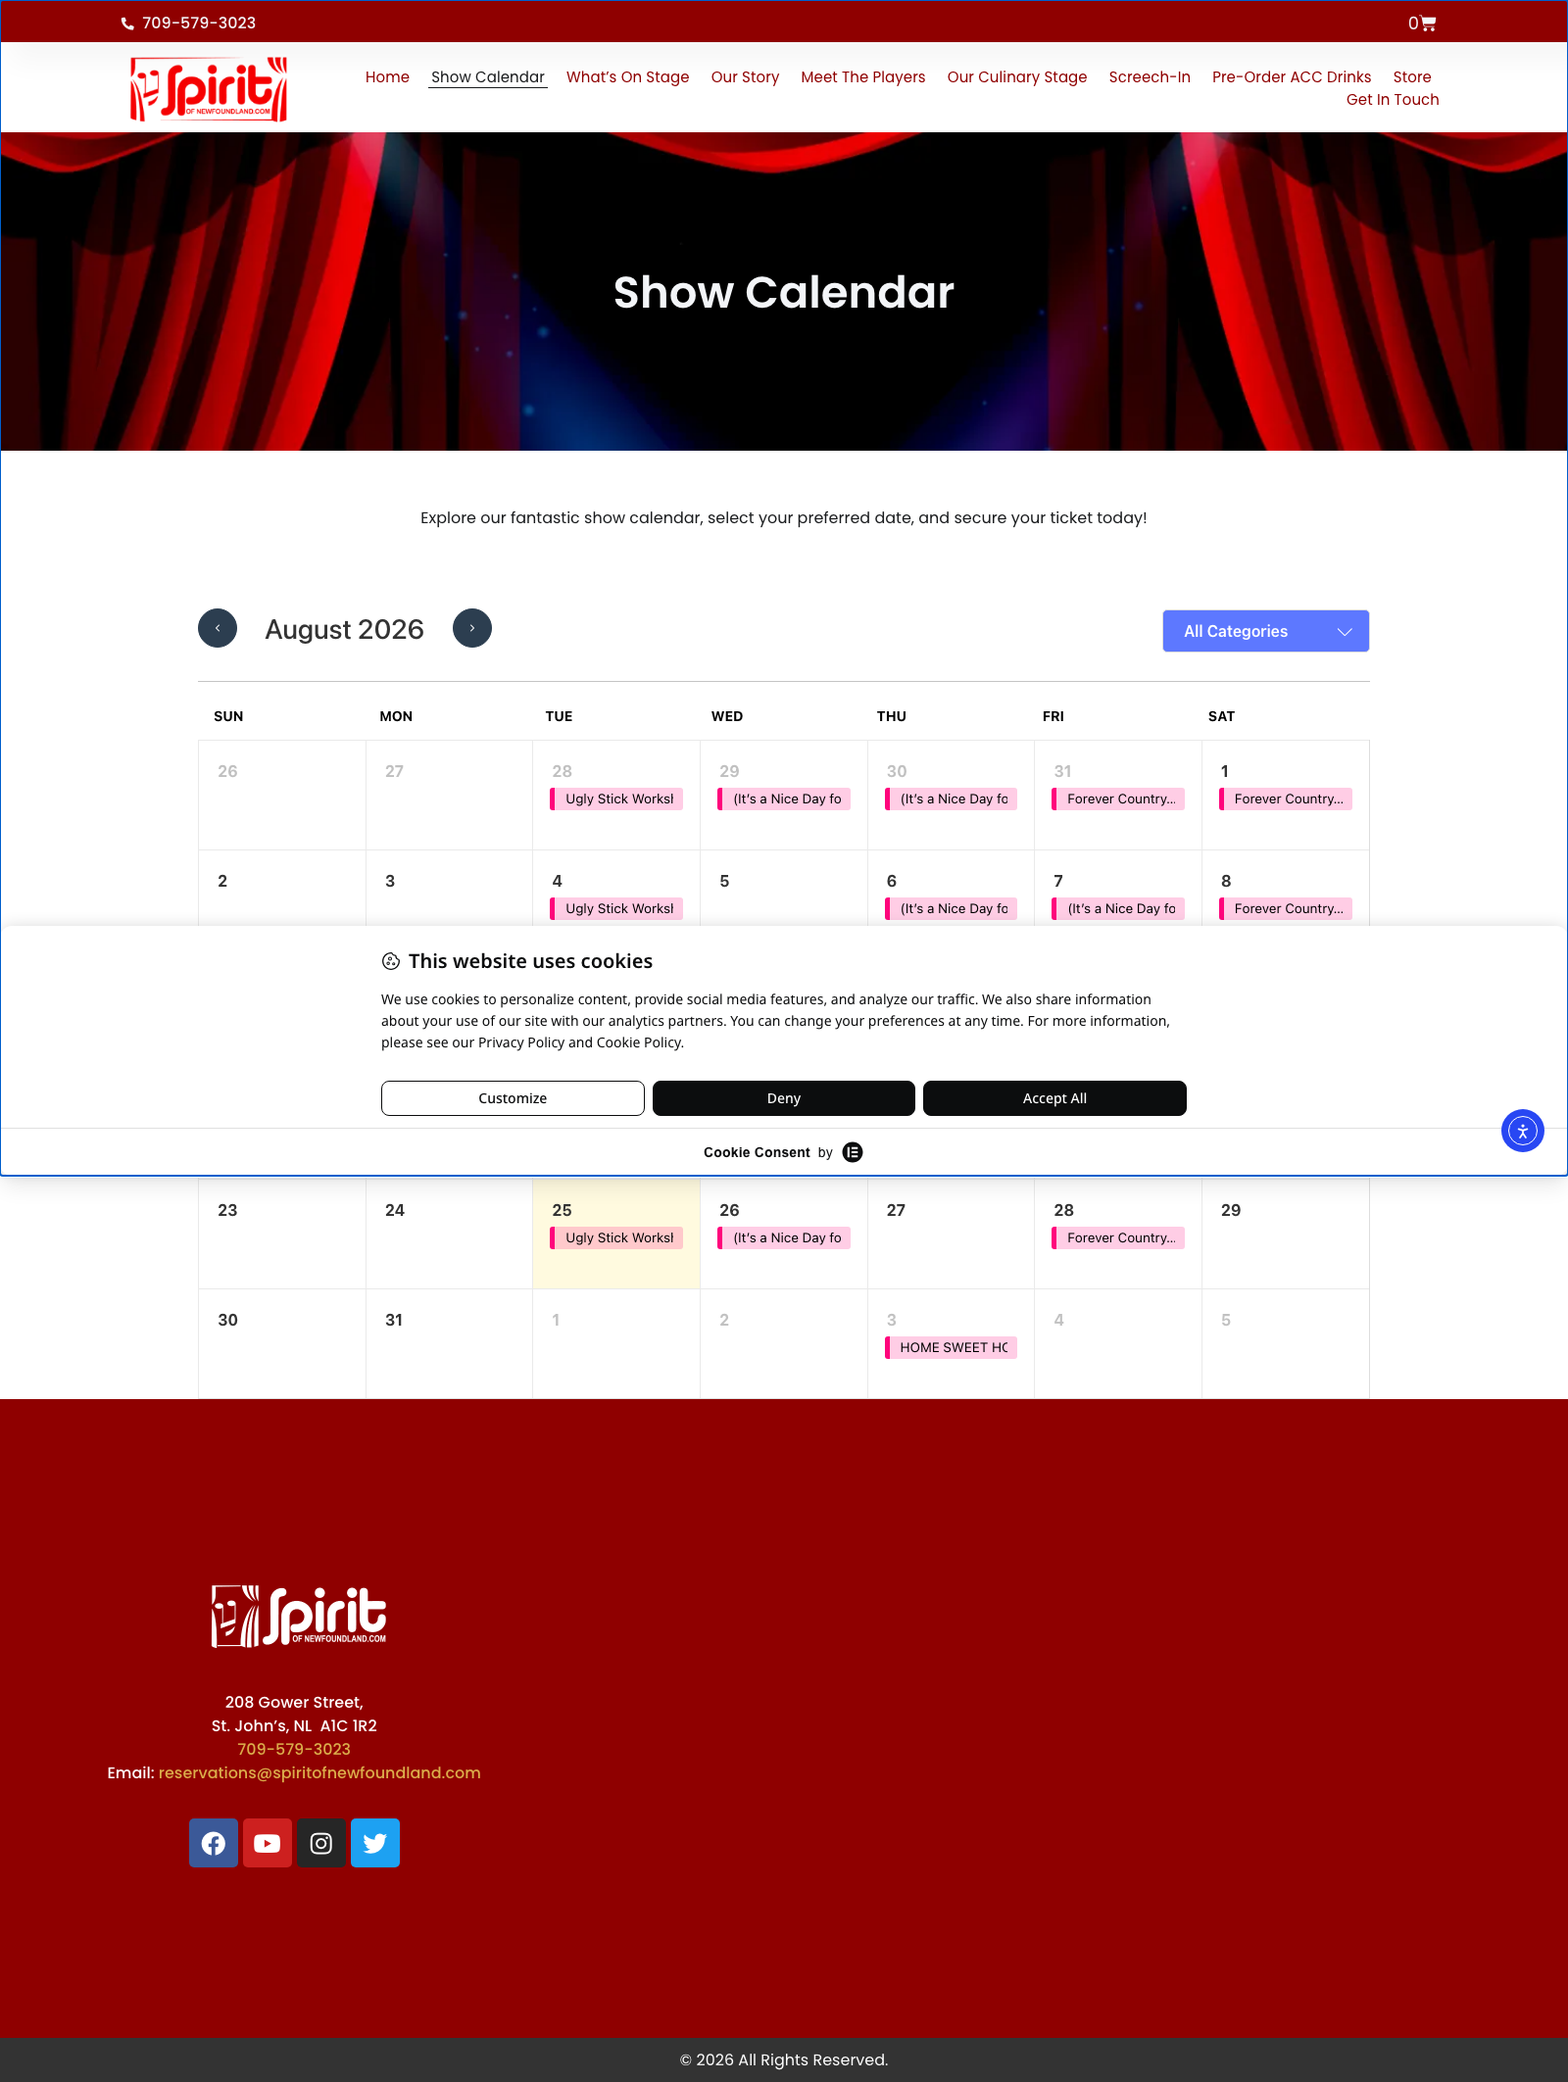
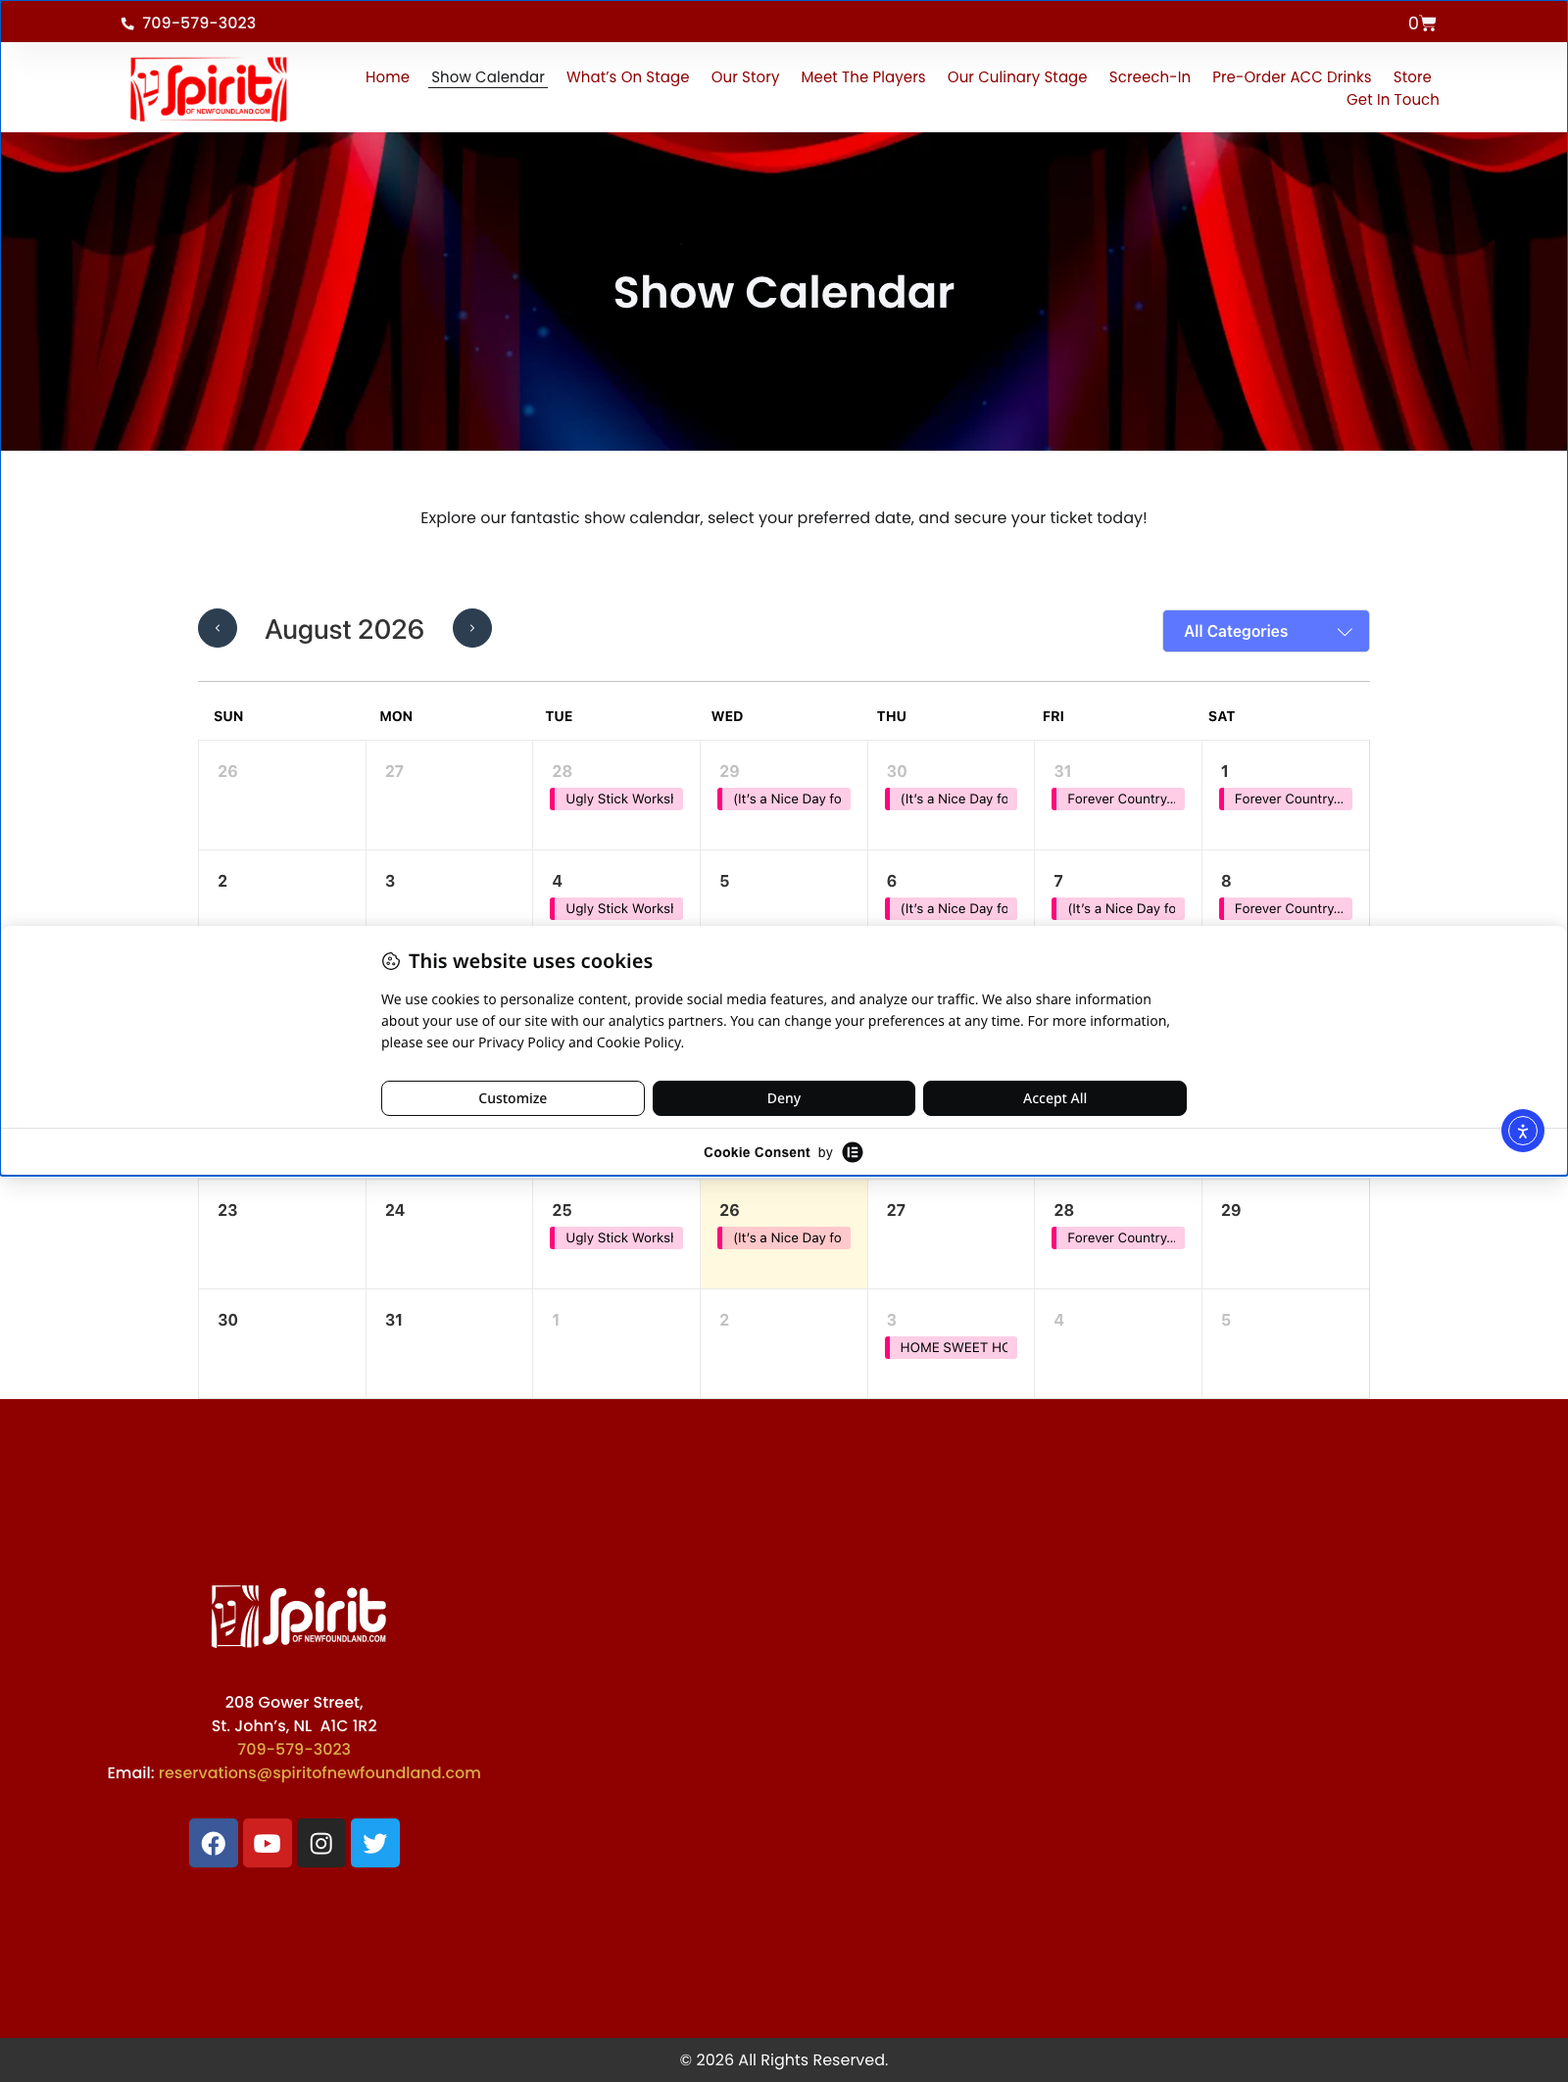
fix(shows): read the real calendar, and stop the browser crashing the app
Importing shows was reading the wrong source and returning wrong data. The show
calendar is rendered entirely in the browser - "HOME SWEET" and "PRIVATE EVENT" appear
zero times in the page HTML - so the plain-HTTP importer could never see it. All it
could reach were individual show pages linked from elsewhere, which is why October
listed 5 nights instead of 13 and attributed Forever Country to 2 October, a Dwight's
Wedding date.

Worse, the previous commit's (date, start_time) adoption then let that bad data
overwrite good records: the correct 2 October show was renamed in place. Show imports
now go through the Playwright-backed sync service, which reads the rendered calendar
and reconciles the range properly, retiring anything no longer listed.

Browser work moved out of the request thread
  Playwright drives the browser through asyncio subprocesses, and on Unix those need
  the process's main thread. Called from a web request - always a worker thread - the
  interpreter died outright and took the whole application down rather than raising
  anything catchable. The import now runs as its own process and reports back over
  stdout: scheduling/services/calendar_import.py picks the command (the app's own
  binary in calendar-sync mode when frozen, manage.py otherwise) and parses a single
  result line, which sync_spirit_calendar --json now emits. A wedged or crashing
  browser can no longer affect the application.

Playwright is now bundled in the Mac app
[…]

Changed region(s): [[0.3125, 0.5591, 0.5625, 0.6212]]

diff --git a/desktop/app_main.py b/desktop/app_main.py
@@ -24,6 +24,13 @@ DB_PATH = DATA_DIR / "db.sqlite3"
 KEY_PATH = DATA_DIR / "secret_key"
 ENV_PATH = DATA_DIR / "settings.env"
 
+# Where Chromium lives. Pinned explicitly and set before anything touches Playwright,
+# because the default inside a frozen app is a folder within the .app bundle itself:
+# the download lands in the user's cache while the launcher looks in the bundle, and
+# the two never meet. The bundle is read-only in any case.
+BROWSER_DIR = Path.home() / "Library" / "Caches" / "ms-playwright"
+os.environ.setdefault("PLAYWRIGHT_BROWSERS_PATH", str(BROWSER_DIR))
+
 
 def bundle_dir() -> Path:
     """Where the bundled resources live, frozen or running from source."""
@@ -84,6 +91,43 @@ def prepare_data_dir() -> None:
         ENV_PATH.chmod(0o600)
 
 
+def ensure_browser_engine() -> None:
+    """Make sure Playwright's Chromium is present, fetching it once if it is not.
+
+    The show calendar is rendered in the browser, so importing shows needs a real
+    browser engine. Chromium is ~150 MB and lives in the user's cache directory rather
+    than inside the app, so it is downloaded on first use instead of shipped. This runs
+    in the background at startup: the app is usable immediately, and by the time anyone
+    opens the Shows page the engine is normally ready.
+    """
+    if BROWSER_DIR.exists() and any(BROWSER_DIR.glob("chromium_headless_shell-*")):
+        return
+
+    try:
+        import subprocess
+
+        from playwright._impl._driver import compute_driver_executable, get_driver_env
+
+        # Invoke Playwright's own bundled Node driver rather than "sys.executable -m
+        # playwright": inside a frozen app sys.executable is the app binary, not a
+        # Python interpreter, so the module form silently does nothing.
+        node, cli = compute_driver_executable()
+        Path(node).chmod(0o755)  # PyInstaller does not preserve the executable bit
+        env = get_driver_env()
+        env["PLAYWRIGHT_BROWSERS_PATH"] = str(BROWSER_DIR)
+        subprocess.run(
+            [node, cli, "install", "chromium"],
+            check=False,
+            capture_output=True,
+            timeout=900,
+            env=env,
+        )
+    except Exception:
+        # A failed download must never stop the app starting; the Shows page explains
+        # what to do if the engine is still missing when an import is attempted.
+        pass
+
+
 def configure_django(port: int) -> None:
     os.environ.setdefault("DJANGO_SETTINGS_MODULE", "spirit_scheduler.settings")
     os.environ["DJANGO_SECRET_KEY"] = KEY_PATH.read_text().strip()
@@ -114,7 +158,39 @@ def open_when_ready(url: str, port: int) -> None:
         time.sleep(0.25)
 
 
+def run_calendar_sync(start: str, end: str) -> int:
+    """Calendar-sync mode: perform one import and exit, printing a result line.
+
+    The application re-invokes its own binary this way instead of driving the browser
+    inside a web request. Playwright needs asyncio subprocesses, which on Unix only
+    work on a process's main thread; from a request thread the interpreter dies and
+    takes the whole application with it.
+    """
+    import datetime as _dt
+
+    prepare_data_dir()
+    ensure_browser_engine()
+    configure_django(0)
+
+    import django
+
+    django.setup()
+
+    from django.core.management import call_command
+
+    call_command(
+        "sync_spirit_calendar",
+        start=_dt.date.fromisoformat(start).isoformat(),
+        end=_dt.date.fromisoformat(end).isoformat(),
+        json=True,
+    )
+    return 0
+
+
 def main() -> int:
+    if len(sys.argv) >= 4 and sys.argv[1] == "--sync-calendar":
+        return run_calendar_sync(sys.argv[2], sys.argv[3])
+
     prepare_data_dir()
 
     port = free_port()
@@ -147,6 +223,7 @@ def main() -> int:
         users.objects.create_superuser("manager", "", "spirit")
 
     threading.Thread(target=open_when_ready, args=(url, port), daemon=True).start()
+    threading.Thread(target=ensure_browser_engine, daemon=True).start()
 
     from django.core.management.commands.runserver import Command as RunServer
 

diff --git a/scheduling/services/calendar_import.py b/scheduling/services/calendar_import.py
@@ -1,0 +1,110 @@
+"""Run the live calendar import in its own process.
+
+Reading the show calendar drives a headless browser, and Playwright does that through
+asyncio subprocesses. On Unix those need the main thread of the process: called from a
+web request - which is always a worker thread - the child-process machinery has no
+watcher attached and the interpreter dies outright, taking the whole application with
+it rather than raising something catchable.
+
+So the import runs as a separate process and reports back over stdout. That also keeps
+a slow or wedged browser from occupying a request thread, and means a crash in the
+browser can never take the application down.
+"""
+
+from __future__ import annotations
+
+import json
+import subprocess
+import sys
+from dataclasses import dataclass
+from datetime import date
+from pathlib import Path
+
+RESULT_MARKER = "SPIRIT_CALENDAR_RESULT:"
+TIMEOUT_SECONDS = 600
+
+
+class CalendarImportError(RuntimeError):
+    """The import could not be completed. The message is safe to show a user."""
+
+
+@dataclass(frozen=True)
+class CalendarImportResult:
+    received: int
+    created: int
+    updated: int
+    unchanged: int
+    status: str
+    rendered: int
+    extracted: int
+    notes: str
+
+    @property
+    def is_partial(self) -> bool:
+        return self.status == "PARTIAL"
+
+
+def _command(start: date, end: date) -> list[str]:
+    """The command that performs the import, frozen app or source checkout."""
+    if getattr(sys, "frozen", False):
+        # Re-invoke this same application binary in calendar-sync mode; there is no
+        # separate Python interpreter to call inside a packaged .app.
+        return [sys.executable, "--sync-calendar", start.isoformat(), end.isoformat()]
+
+    manage_py = Path(__file__).resolve().parents[2] / "manage.py"
+    return [
+        sys.executable,
+        str(manage_py),
+        "sync_spirit_calendar",
+        "--start",
+        start.isoformat(),
+        "--end",
+        end.isoformat(),
+        "--json",
+    ]
+
+
+def run_calendar_import(start: date, end: date) -> CalendarImportResult:
+    try:
+        completed = subprocess.run(
+            _command(start, end),
+            capture_output=True,
+            text=True,
+            timeout=TIMEOUT_SECONDS,
+        )
+    except subprocess.TimeoutExpired as exc:
+        raise CalendarImportError(
+            "the calendar took too long to respond. Check the internet connection "
+            "and try a shorter date range."
+        ) from exc
+    except OSError as exc:
+        raise CalendarImportError(f"the import process could not be started ({exc}).") from exc
+
+    payload = None
+    for line in (completed.stdout or "").splitlines():
+        if line.startswith(RESULT_MARKER):
+            payload = json.loads(line[len(RESULT_MARKER) :])
+
+    if payload is None:
+        detail = (completed.stderr or completed.stdout or "").strip().splitlines()
+        tail = detail[-1] if detail else f"exit code {completed.returncode}"
+        if "executable doesn't exist" in tail.lower() or "playwright install" in tail.lower():
+            tail = (
+                "the browser engine is still downloading. It fetches itself shortly "
+                "after the application starts - wait a moment and try again."
+            )
+        raise CalendarImportError(tail)
+
+    if payload.get("error"):
+        raise CalendarImportError(payload["error"])
+
+    return CalendarImportResult(
+        received=payload.get("received", 0),
+        created=payload.get("created", 0),
+        updated=payload.get("updated", 0),
+        unchanged=payload.get("unchanged", 0),
+        status=payload.get("status", ""),
+        rendered=payload.get("rendered", 0),
+        extracted=payload.get("extracted", 0),
+        notes=payload.get("notes", ""),
+    )

diff --git a/scheduling/views.py b/scheduling/views.py
@@ -1,7 +1,7 @@
 import csv
+import logging
 from datetime import date, datetime
 
-import requests
 from django.contrib import messages
 from django.contrib.auth.decorators import login_required
 from django.core.exceptions import ValidationError
@@ -30,10 +30,10 @@ from scheduling.importers.availability import (
     import_availability_rows,
     parse_availability_csv,
 )
-from scheduling.importers.calendar import SpiritCalendarImporter
 from scheduling.models import (
     DEFAULT_EXPECTED_GUESTS,
     AvailabilityType,
+    CalendarSyncRun,
     Employee,
     EmployeeAvailability,
     FiftyFiftyRotationConfig,
@@ -52,6 +52,7 @@ from scheduling.models import (
     SquareSyncAuditLog,
     WarningSeverity,
 )
+from scheduling.services.calendar_import import CalendarImportError, run_calendar_import
 from scheduling.services.engine import IncompleteAvailabilityError, SchedulingEngine
 from scheduling.services.metrics import metrics_for_employee
 from scheduling.services.square_production_sync import (
@@ -71,6 +72,8 @@ from scheduling.services.square_sync import (
     validate_schedule_for_sync,
 )
 from scheduling.services.workflow import approve_schedule, override_assignment, resolve_warning
+
+logger = logging.getLogger(__name__)
 
 
 def square_connection_context() -> dict[str, object]:
@@ -210,17 +213,32 @@ def show_import(request):
 
     start = form.cleaned_data["start_date"]
     end = form.cleaned_data["end_date"]
+
+    # The show calendar is rendered entirely in the browser - none of the event titles
+    # exist in the page HTML - so it has to be read through a real browser engine, in a
+    # separate process. See scheduling.services.calendar_import for why.
     try:
-        summary = SpiritCalendarImporter().import_range(start, end)
-        messages.success(
-            request,
-            f"Imported {start:%d %b %Y} to {end:%d %b %Y} from the live calendar: "
-            f"{summary.created} added, {summary.updated} updated. "
-            "Nothing was duplicated or deleted.",
-        )
-    except (requests.RequestException, ValueError) as exc:
+        result = run_calendar_import(start, end)
+    except CalendarImportError as exc:
+        logger.warning("Live calendar import failed: %s", exc)
         messages.error(request, f"The live calendar could not be read: {exc}")
         return redirect("show_list")
+
+    note = (
+        f"Imported {start:%d %b %Y} to {end:%d %b %Y} from the live calendar: "
+        f"{result.received} show(s) found - {result.created} added, "
+        f"{result.updated} updated"
+        + (f", {result.unchanged} unchanged" if result.unchanged else "")
+        + "."
+    )
+    if result.is_partial:
+        messages.warning(
+            request,
+            f"{note} The calendar showed {result.rendered} events but only "
+            f"{result.extracted} could be read, so some may be missing. {result.notes}",
+        )
+    else:
+        messages.success(request, note)
 
     # Return to the list showing exactly the dates that were just imported.
     return redirect(f"{reverse('show_list')}?start={start:%Y-%m-%d}&end={end:%Y-%m-%d}")
@@ -861,7 +879,6 @@ def calendar_sync(request):
     from datetime import date
 
     from scheduling.integrations.spirit_calendar.service import SpiritCalendarSyncService
-    from scheduling.models import CalendarSyncRun
 
     start_date_str = request.GET.get("start") or request.POST.get("start") or "2026-09-07"
     end_date_str = request.GET.get("end") or request.POST.get("end") or "2026-10-03"

diff --git a/scheduling/management/commands/sync_spirit_calendar.py b/scheduling/management/commands/sync_spirit_calendar.py
@@ -35,6 +35,11 @@ class Command(BaseCommand):
             action="store_true",
             help="Preview sync without saving to database",
         )
+        parser.add_argument(
+            "--json",
+            action="store_true",
+            help="Emit a single machine-readable result line for the application to read",
+        )
 
     def handle(self, *args, **options):
         try:
@@ -82,5 +87,29 @@ class Command(BaseCommand):
                     f"Venue: {occ.venue} | Private: {occ.is_private} | Offsite: {occ.is_offsite}"
                 )
 
+            if options.get("json"):
+                self._emit_json(run)
+
         except Exception as exc:
+            if options.get("json"):
+                self._emit_json(None, error=str(exc))
+                return
             raise CommandError(f"Calendar Sync Command Failed: {exc}") from exc
+
+    def _emit_json(self, run, error: str = "") -> None:
+        """One parseable line for scheduling.services.calendar_import to read back."""
+        import json
+
+        from scheduling.services.calendar_import import RESULT_MARKER
+
+        payload = {"error": error} if error else {
+            "received": run.events_received,
+            "created": run.events_created,
+            "updated": run.events_updated,
+            "unchanged": run.events_unchanged,
+            "status": str(run.status),
+            "rendered": run.rendered_count,
+            "extracted": run.extracted_count,
+            "notes": run.notes or "",
+        }
+        self.stdout.write(RESULT_MARKER + json.dumps(payload))
